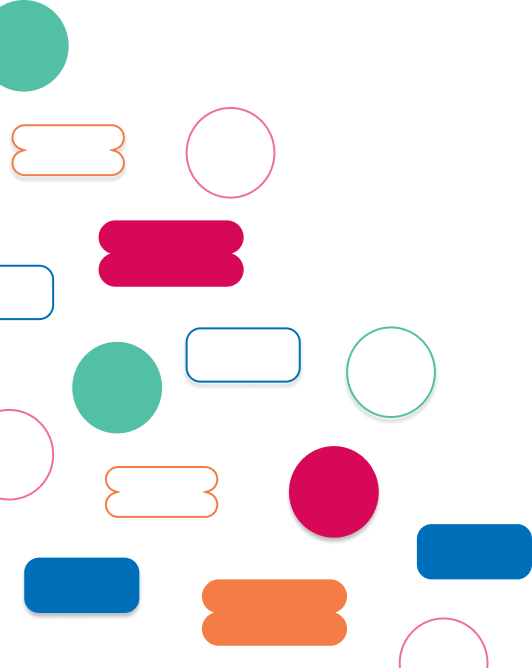
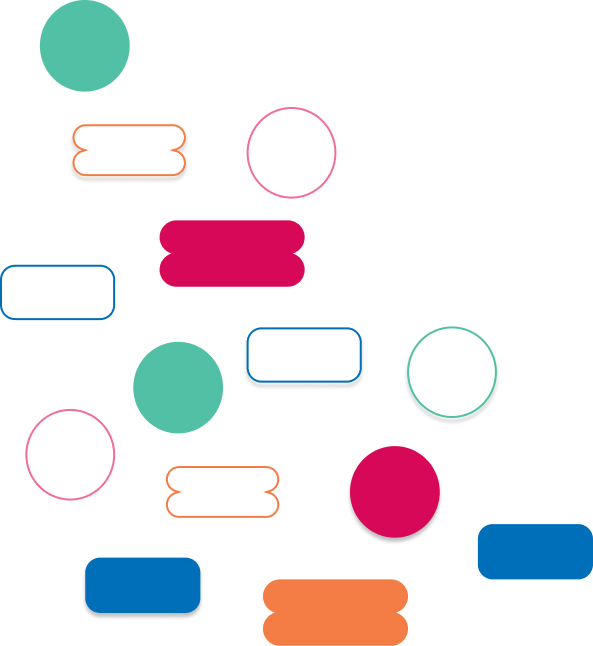
Img login ajustment

diff --git a/src/components/Login/styles.scss b/src/components/Login/styles.scss
@@ -142,7 +142,7 @@
       
       .imgIcons {
         height: 70%;
-        width: 70%;
+        width: 80%;
       }
 
     }
